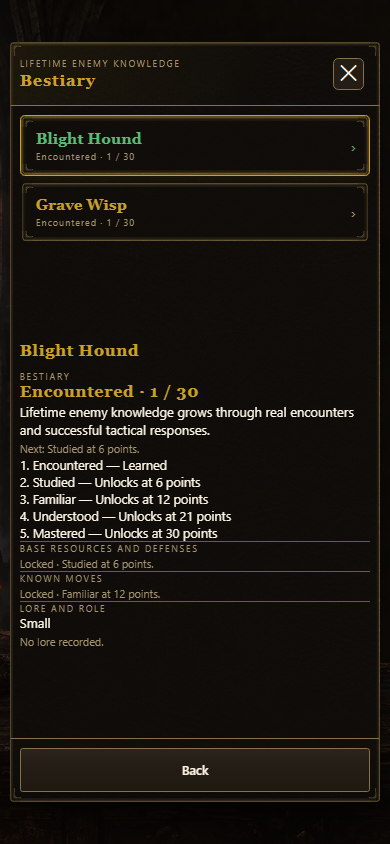
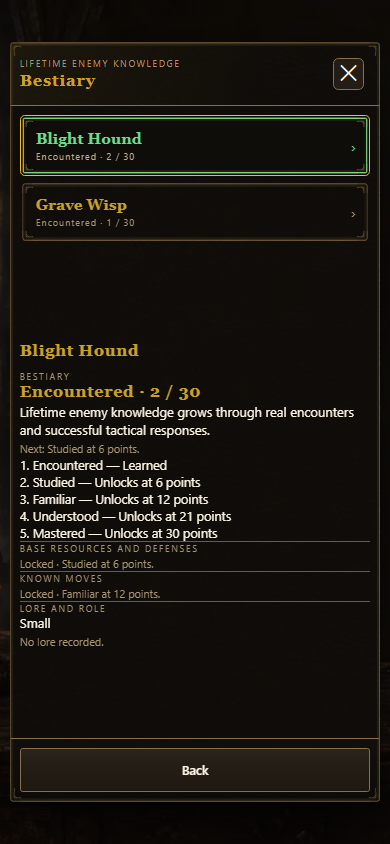
Document final compiled knowledge gameplay and exact checkpoint evidence

Changed region(s): [[0.0308, 0.1232, 0.9538, 0.2156], [0.4615, 0.4621, 0.5231, 0.4929], [0.4, 0.4621, 0.4308, 0.4929]]

diff --git a/docs/enemy-knowledge-playtest.md b/docs/enemy-knowledge-playtest.md
@@ -1,97 +1,39 @@
 # Enemy knowledge playtest
 
-The enemy-knowledge runtime implements the independently merged contract in
-[enemy-knowledge-contract.md](enemy-knowledge-contract.md) and SPEC section 4.9.
+The runtime implements [enemy-knowledge-contract.md](enemy-knowledge-contract.md) and SPEC section 4.9, independently merged in #1726.
 
-## Gameplay evidence, 2026-10-08
+## Compiled gameplay evidence, 2026-10-08
 
-Real normal-run interaction through the game served from this feature worktree,
-in Microsoft Edge with reduced motion. Desktop: 1440 by 900. Phone: 390 by 844;
-the phone context has native touch enabled (`navigator.maxTouchPoints = 1`).
-Source-game tests exercised the complete normal run below. Generated-bundle
-testing also verified build `0.7.1.1127`, digest `25d883ae82`, at
-`/AshenSpire.html`; final combined-build captures will be refreshed before merge.
+The final regular standalone artifact is `0.7.1.1132`, digest `8a6108c4f4`. All four launcher aliases refreshed successfully. Build identity, shipped-file, receipt and changelog-order gates passed. Browser probes read the embedded ordinal and digest from the actual compiled document and required the same identity after reload.
 
-- Quick start, initial class choice and the first map encounter were entered
-  through normal controls. The pack contained two Blight Hounds and a Grave Wisp.
-  Duplicate hounds created one lifetime encounter receipt.
-- Accepted predictions on wholly unknown actions resolved to Attack, Spell and
-  Spell. The third correct execution automatically advanced Perception to level
-  1, with XP 0 and pendingDrafts 0. No Perception reward row appeared.
-- The phone's native Predict action button and End Turn confirmation accepted
-  touch input. A committed Dodge Roll then mechanically succeeded against a
-  wholly unknown action, producing earnedXp 4 and one Blight Hound bonus.
-- Save and Quit, reload and Continue preserved the exact current encounter,
-  intent reads/serials, prediction feedback, RNG counters and profile ledger.
-- Actual card plays defeated the encounter. Reload at the victory handoff
-  preserved the reward offer, level XP, RNG, fight totals and Perception exactly.
-  The reward door resumed, rather than reopening or recounting the encounter.
-- Native phone taps claimed Riposte and the ordinary Combat Maneuvers Backstep
-  draft, then confirmed Continue and returned to the map. All three rewards
-  were claimed; Perception remained level 1, XP 1, pendingDrafts 0, and its
-  encounter credit remained 4. The selected cards were present in the saved deck.
-- The learned Bestiary showed five stages, 2/30 Blight Hound progress after the
-  tactical bonus and 1/30 Grave Wisp progress, next threshold 6, locked
-  resources/moves, and no page overflow. Back and
-  Escape returned to the title; keyboard inspector Escape restored its opener.
-- Native touch opened the compiled inspector through its normal enemy selection
-  controls. The select and Predict action button measured 44 physical pixels
-  high; the panel had no horizontal overflow and its nine native options had
-  no inserted glossary children. A ready Spell prediction executed correctly,
-  advanced Perception automatically, and reloaded with the exact combat,
-  Perception, feedback and RNG projection. The selected formation sprite's
-  glow does not trap Inspect controls beneath adjacent enemy art.
+Microsoft Edge exercised actual game controls at 1440 × 900 and 390 × 844 with reduced motion. The phone browser enabled native touch (`navigator.maxTouchPoints = 1`). These captures were visually inspected.
 
-![Real desktop combat](preview/enemy-knowledge/combat-desktop.png)
+- Desktop combat displayed two `Attack?` clues and one wholly unknown `?`, with the existing character, enemy and backdrop art.
+- Native phone input selected the Grave Wisp and opened its normal Inspect control. The select and Predict action button were at least 44 pixels high, with no horizontal panel overflow and nine plain native options.
+- A committed Spell prediction on the initially wholly unknown action serial 9 executed correctly. Perception advanced from level 0 / XP 2 to level 1 / XP 0, with pendingDrafts 0. Reload and Continue preserved the entire serialized combat, RNG seed and every stream counter, prediction feedback, Perception and learning projection.
+- The native-touch Bestiary showed five stages: Encountered, Studied, Familiar, Understood and Mastered. Blight Hound progress was 2/30 after a tactical bonus; Grave Wisp was 1/30. The next threshold was 6, with resources and moves still locked and absent from the learned disclosure model. The page had no horizontal overflow. Escape restored the Bestiary opener; Inspector Escape restored its Inspect opener.
+- Three additional compiled Load probes preserved exact snapshots and RNG: knowledge-disabled expanded combat returned from live turn 3 to its turn-1 encounter entry; an explicitly saved turn-3 checkpoint restored exactly after a later unsaved turn; default knowledge-enabled combat restored its latest accepted turn-3 action. The debug fixture used the existing `shotSettings` seam to disable optional haptics before a user gesture, without changing combat or save rules.
 
-![Learned Bestiary with native phone touch](preview/enemy-knowledge/bestiary-phone.png)
+![Compiled desktop combat](preview/enemy-knowledge/combat-desktop.png)
 
-## Storage and authority evidence
+![Native-touch prediction controls](preview/enemy-knowledge/prediction-phone.png)
 
-The actual browser-save facade was exercised in two browser realms with real
-localStorage and navigator.locks. Concurrent disjoint learning receipts and
-stale settings writes waited under the same profile lock and retained their
-union. A physical partial-write/throw fault retained the complete old ledger,
-old tactical bonus, stamped target and new pending receipt; retry repaired them
-and acknowledged only the captured pending learning. This probe used an isolated
-QA storage namespace and did not alter the gameplay profile.
+![Native-touch learned Bestiary](preview/enemy-knowledge/bestiary-phone.png)
 
-Headless checks cover full solo/co-op save continuation, host-private seeded
-reads, owned-seat prediction and wire projection, atomic host acknowledgment,
-delayed/multi-hit/cancelled actions, inert previews/rejections, and learned-stage
-DOM-model disclosure. Review also reproduced and fixed stale asynchronous
-reward, start-run and terminal-completion ownership paths.
+## Normal run and storage evidence
 
-The source game's normal Load controls were also checked in two explicit
-combat fixtures. After two accepted turns, the legacy combat fixture restored
-its exact turn-1 encounter entry. The default knowledge-enabled combat restored
-its exact committed turn-3 snapshot. Both comparisons included the serialized
-combat, RNG seed and all stream counters, after the restored combat object was
-adopted. The focused slot-load integration checks passed 23/23; the stock browser
-driver and its known-bad corpus remain part of the hosted promotion checks.
+Earlier normal source-game interactions entered Quick Start, chose a class and entered the first map encounter through normal controls. Two Blight Hounds and one Grave Wisp created one lifetime receipt per definition. Correct Attack, Spell and Spell predictions advanced Perception automatically; a committed Dodge Roll then succeeded against an unknown action, producing a fourth earned XP and one Hound tactical bonus. Actual card plays won the encounter. Reload preserved the victory handoff, reward offer, level XP, RNG and fight totals. Native taps claimed Riposte and the ordinary Backstep draft, confirmed Continue and returned to the map without recounting the encounter. Perception remained level 1 / XP 1, pendingDrafts 0.
 
-The fresh local core run passed 370 discovered files and 3,232 tests, all 122
-engine regression cases, and 150 checks with zero failures. Independent regular
-and alternative source reviews found no actionable issues. Alternative focused
-checks passed 69/69, with protected-path auditing retaining all variant art.
+The actual browser-save facade was exercised in two browser realms with real localStorage and navigator.locks. Concurrent disjoint receipts and stale settings writes retained their union under the same profile lock. A physical partial-write/throw fault retained the complete old ledger, bonus and stamped target, plus the new pending receipt. Retry repaired the ledger and acknowledged only captured learning. This used an isolated QA storage namespace.
 
-The reconciled alternative source was also exercised with the same saved normal
-run at desktop and native-touch phone sizes. It retained its character, enemy
-and backdrop art while showing two Attack clues and one wholly unknown action.
-A ready Spell prediction advanced Perception to level 1 without a draft on both
-devices, and reload preserved the exact saved projection. Native inspection used
-the visible figure and its normal Inspect button; the prediction controls were
-44 pixels high with no panel overflow and nine plain native options. Final
-compiled alternative captures and promotion checks are tracked separately.
+Headless checks cover solo/co-op continuation, private host-seeded reads, owned-seat wire projection, acknowledgment before adoption, delayed/multi-hit/cancelled actions, inert previews and rejections, bounded monotonic profile receipts, staged disclosure and asynchronous run ownership. The actual main combat wrapper and browser-save manager regression also verifies that legacy expanded runs retain their encounter-entry checkpoint while opted-in runs save accepted learning exactly.
 
-Optional audio samples returned 404 and used the existing procedural fallback.
-Map/music requests cancelled during navigation were recorded separately. No
-JavaScript runtime exception was observed in the gameplay interactions.
+The frozen reconciled source completed all 373 discovered files and 3,245 tests with zero failures. Its hosted exhaustive run completed both tool self-test groups and the bundler parse gate; all 149 core checks passed, while the ordering step correctly rejected the then-unfinished build receipt. The final build resolves that mismatch. Complete local tool-suite execution and exact final-head promotion checks are tracked separately. Independent regular and alternative reviews found no actionable source issues.
 
-## Delivery state
+Optional `/assets/sfx/` samples used the existing procedural fallback after 404 responses. Pre-gesture AudioContext policy warnings were recorded. The final compiled probes reported no runtime exception, required-resource failure or unexpected console error.
 
-Source implementation and focused validation are committed. Final generated
-receipt/build, complete local tool suite, PR checks and regular/alternative
-dev/test promotions remain pending. This evidence does not claim release/main
-promotion or physical owner/device acceptance. Phone evidence is a browser
-viewport with native touch enabled, rather than a physical handset test.
+## Alternative and delivery
+
+The reconciled alternative source also passed actual desktop and native-touch phone gameplay, prediction, exact reload and Bestiary checks. Protected-path auditing retained all variant art and the parent's pricing, checkpoint and sigil controls. Its final generated artifact and compiled captures are recorded separately before promotion.
+
+Regular and alternative dev/test promotions remain tracked delivery work. No release/main promotion is included. Phone evidence uses a browser viewport with native touch; physical handset and owner acceptance remain separate.
